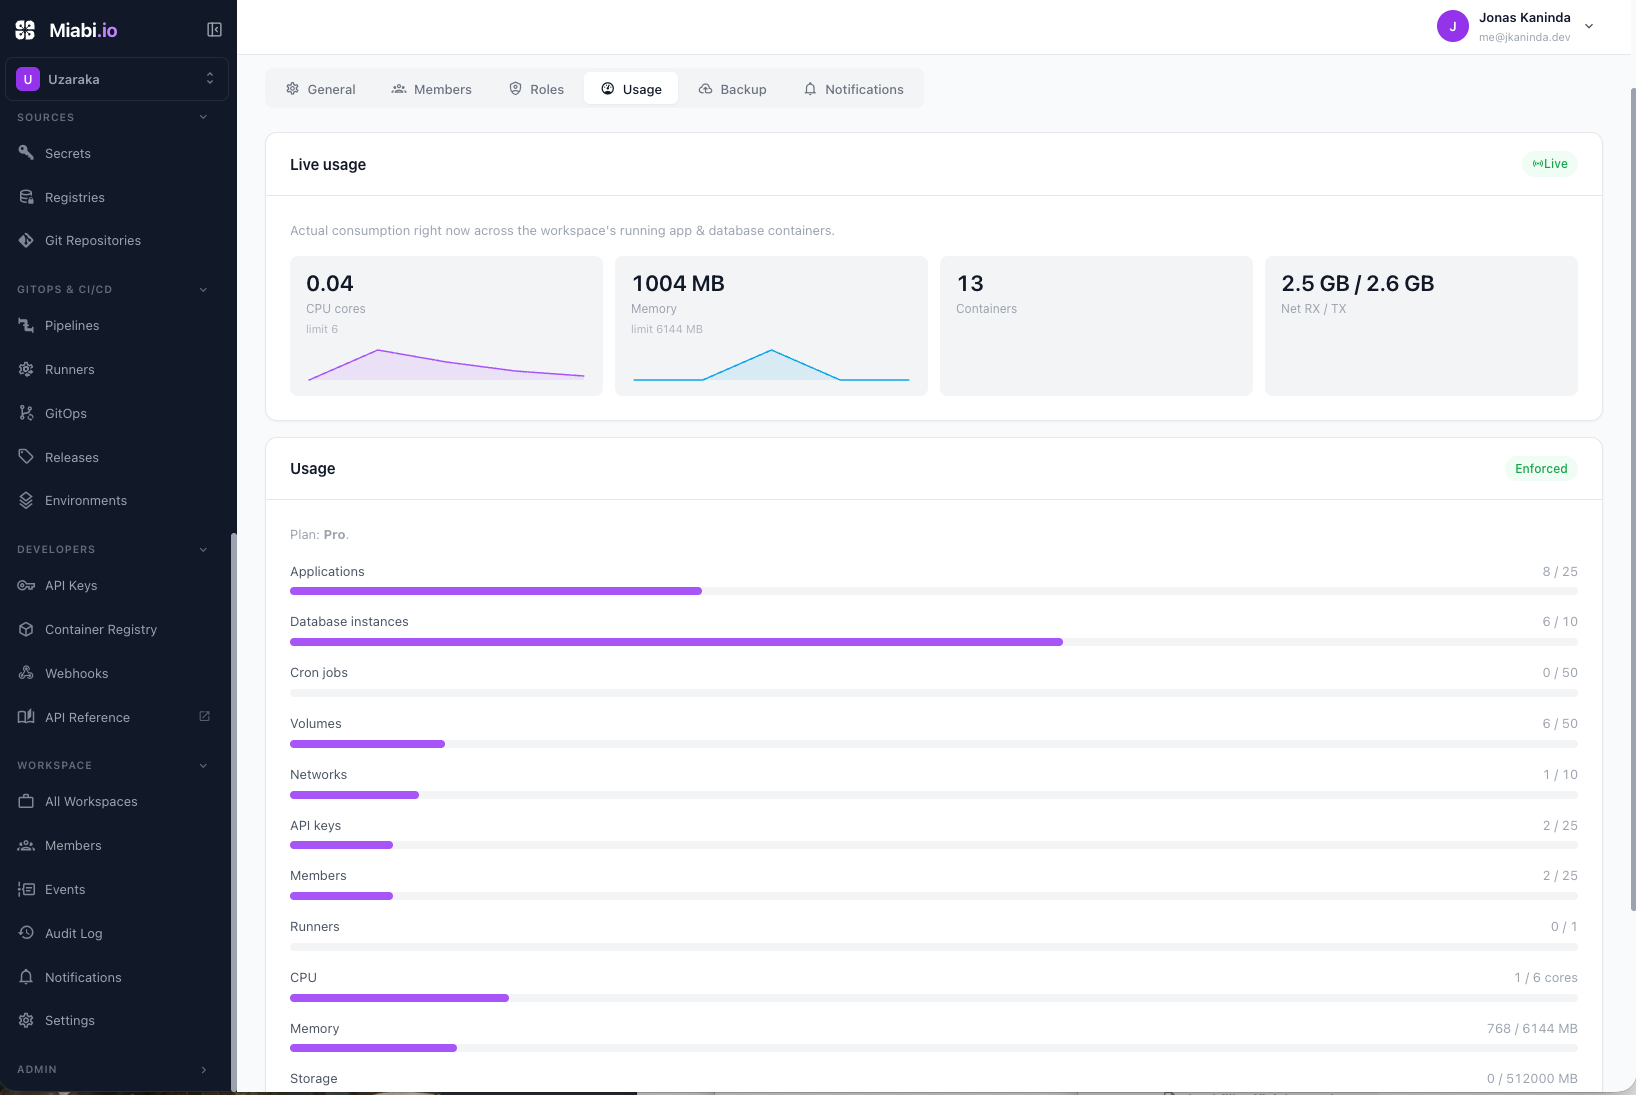
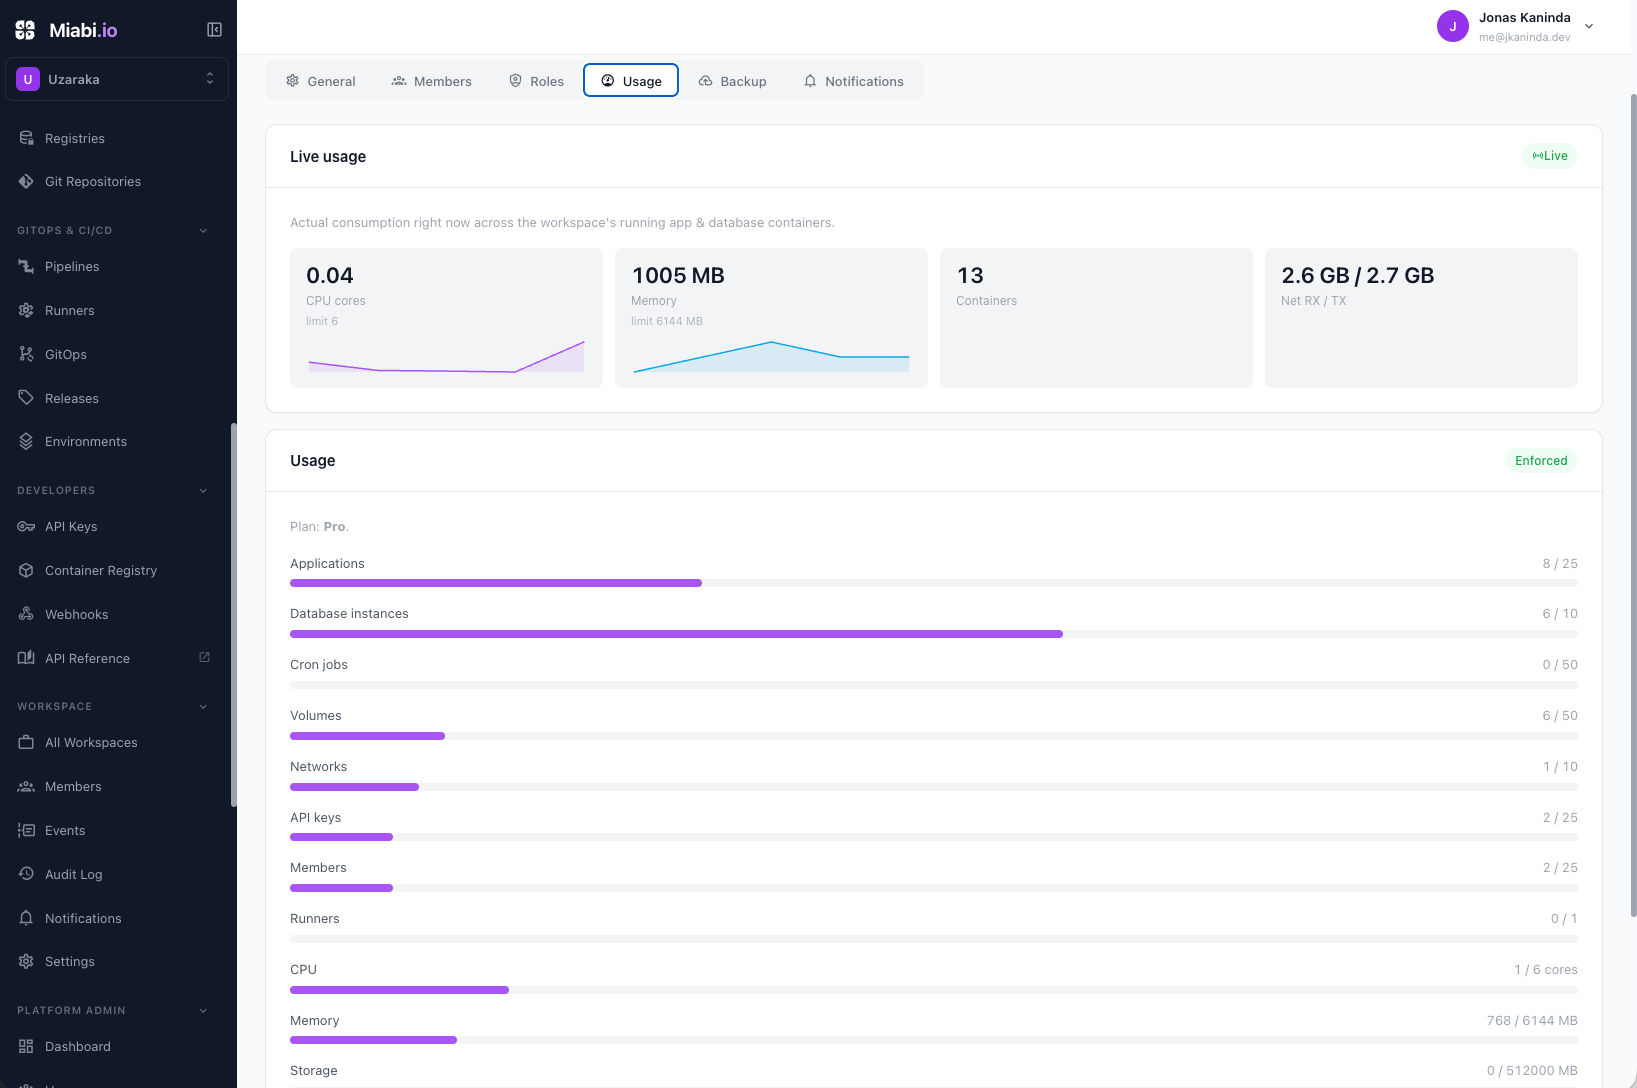
chore: update nodes, volumes,  networks & Subnets documentation and  GPU feature

diff --git a/sidebars.ts b/sidebars.ts
@@ -32,6 +32,7 @@ const sidebars: SidebarsConfig = {
         'applications/environment-variables',
         'applications/releases-and-rollbacks',
         'applications/scaling-and-resources',
+        'applications/gpus',
         'applications/jobs',
         'applications/stacks',
         'applications/environments',

diff --git a/docs/applications/gpus.md b/docs/applications/gpus.md
@@ -1,0 +1,149 @@
+---
+sidebar_position: 7
+title: GPUs
+description: Run GPU-accelerated workloads on Miabi-managed nodes — enable devices per node, gate access by plan, and request GPUs per app.
+---
+
+# GPUs
+
+Miabi can attach **NVIDIA GPUs** to your application containers for inference servers, training
+jobs, transcoding, and other CUDA workloads — without giving every workspace unrestricted access to
+every card on the host. Access is controlled at three levels that mirror the CPU/memory story: a
+platform admin decides **which devices** each node exposes, each **plan** decides whether its
+workspaces may request a GPU and how many, and each **app** declares the GPUs it needs. The deploy
+attaches exactly those devices to the container.
+
+:::note v1 scope
+Version 1 does **whole-device NVIDIA passthrough** with count-based accounting — the common case that
+unblocks real workloads. Fractional GPUs (MIG / time-slicing / MPS), VRAM quotas, AMD ROCm, and
+fleet-wide GPU-aware scheduling are not yet supported. See [Limitations](#limitations).
+:::
+
+## Prerequisites
+
+A node can host GPU workloads when it has:
+
+1. **NVIDIA drivers** installed on the host.
+2. The **[NVIDIA Container Toolkit](https://docs.nvidia.com/datacenter/cloud-native/container-toolkit/latest/install-guide.html)** installed and registered with Docker (this adds the `nvidia` container runtime).
+3. Miabi started with **`MIABI_GPU_ENABLED=true`** (see [Configuration](#configuration)).
+
+Miabi detects the toolkit automatically from the node's Docker runtimes — no node-agent change is
+needed. A node without the toolkit is shown as such, and GPU deploys to it are refused up front
+rather than failing cryptically at container start.
+
+## How it works
+
+```
+Admin enables devices  →  Plan allows GPUs + sets a quota  →  App requests N GPUs  →  Deploy attaches them
+   (per node)                 (per workspace)                    (per app)
+```
+
+Nothing is stored about *which* physical card an app got — devices are resolved fresh at each deploy
+from the node's currently-enabled GPUs, so replacing a card or moving the app to another node just
+works.
+
+## 1. Enable GPUs on a node (admin)
+
+Open **Admin → Nodes → \<node\> → GPUs**. Miabi inventories the node's physical cards by running a
+short probe over the Docker API and lists each one with its model, UUID, memory, and index.
+
+- **Rescan GPUs** re-runs the inventory on demand (it also runs periodically). New cards are
+  discovered automatically.
+- A newly discovered device arrives **disabled** — discovering a card never exposes it to tenants.
+  Toggle **Enabled** to offer it to workloads.
+- Set each device's mode:
+  - **Shared** — many apps may request the device concurrently (good for inference and dev).
+  - **Dedicated** — reserved for one app at a time (good for training).
+
+If the node lacks the NVIDIA Container Toolkit, the page says so and lists no devices until you
+install it and rescan.
+
+## 2. Allow GPUs on a plan (admin)
+
+GPU access is off by default. In **Admin → Plans → \<plan\>**:
+
+- **Allow GPU access** — the capability gate. A workspace cannot request any GPU until its plan
+  allows it.
+- **GPUs** limit — the maximum number of GPU units the workspace's **running** apps may hold at
+  once, summed across apps (the same aggregate model as the CPU/memory limits). `0` = none, `-1` =
+  unlimited. A stopped app frees its units.
+
+You can also override both per workspace under **Admin → Workspaces → \<workspace\>**.
+
+## 3. Request GPUs for an app
+
+In an app's **Settings → Resources**, set:
+
+- **GPUs** — the number of whole devices to attach (`0` = none).
+- **GPU kind** — optionally narrow the request to a vendor or model (e.g. `nvidia`, or a model
+  substring like `A100`). Leave empty to use any enabled GPU on the app's node.
+
+The GPU controls are shown **only when the workspace's plan allows GPUs** — there is no dangling
+field that always errors. The request also rides the [declarative manifest](/docs/cicd/git-push-deploy)
+under `resources.gpu` / `resources.gpuKind`, so a GPU app is reproducible from a manifest.
+
+```yaml
+resources:
+  cpu: "4"
+  memory: 16Gi
+  gpu: 1
+  gpuKind: nvidia
+```
+
+At deploy, Miabi resolves the request to concrete enabled devices on the app's node and attaches
+them. Inside the container `nvidia-smi` lists exactly the granted device(s).
+
+## Constraints & enforcement
+
+GPU access means raw device passthrough, which is privileged, so it is gated hard and refused where
+it would be unsafe:
+
+- **Plan capability, twice.** A workspace whose plan lacks *Allow GPU access* cannot even save an app
+  that requests a GPU (the API returns `403`), and the request is re-checked at deploy.
+- **Quota at deploy.** GPU units are counted against the plan's **GPUs** limit across the workspace's
+  running apps. Deploying an app that would exceed the limit is rejected with the quota reason;
+  stopping another GPU app frees units.
+- **Not with the restricted security profile.** A workload with raw device access is not
+  "restricted", so a GPU app under the [restricted profile](/docs/workspaces/plans-and-quotas) is
+  refused rather than silently downgraded.
+- **Single container only (v1).** A GPU app must run as a single container, not a replicated
+  (cluster/Swarm) service. Set the app's runtime to *container*.
+- **Node must be GPU-capable.** If no enabled device matches the requested kind, or the node lacks
+  the toolkit, the deploy fails with a message naming the node and the requested kind.
+
+With `MIABI_PLAN_ENFORCEMENT=false` (single-tenant/homelab), the capability and quota checks are
+no-ops, but device attachment still works — so a homelab can use GPUs freely.
+
+## Configuration
+
+| Variable | Default | Description |
+|----------|---------|-------------|
+| `MIABI_GPU_ENABLED` | `false` | Master switch. When off, the control plane never probes nodes for GPUs and the UI hides all GPU controls (a no-GPU fleet pays nothing) |
+| `MIABI_NVIDIA_RUNTIME` | `nvidia` | The container runtime name that signals the NVIDIA Container Toolkit is installed |
+| `MIABI_GPU_PROBE_IMAGE` | `nvidia/cuda:12.4.1-base-ubuntu22.04` | The one-shot image the inventory probe runs `nvidia-smi` in. Point at a mirror for air-gapped/registry-pinned fleets |
+| `MIABI_GPU_INVENTORY_MINUTES` | `30` | How often nodes are re-inventoried for GPUs |
+
+## Metrics
+
+When `MIABI_METRICS_ENABLED=true`, the Prometheus `/metrics` endpoint exposes:
+
+- `miabi_gpu_devices_total` — physical GPU devices discovered across all nodes.
+- `miabi_gpu_devices_enabled` — devices enabled (offered to workloads).
+- `miabi_gpu_allocated` — GPU units currently held by running apps.
+
+## Limitations
+
+Version 1 is deliberately scoped to the common case:
+
+- **Whole devices only** — no fractional GPUs (MIG, time-slicing, MPS).
+- **No VRAM quota** — the limit counts whole devices, not GPU memory.
+- **NVIDIA only** — AMD ROCm is not supported.
+- **Single-node placement** — an app's GPUs are chosen on the node it's already pinned to;
+  GPU-aware node selection across a fleet, dedicated-device exclusivity enforcement across the
+  fleet, and clustered (Swarm) GPU services are planned for later phases.
+
+## Related
+
+- [Scaling & Resources](/docs/applications/scaling-and-resources) — CPU and memory limits and replicas.
+- [Plans & Quotas](/docs/workspaces/plans-and-quotas) — capability gates and per-workspace quotas.
+- [Nodes Overview](/docs/nodes/overview) — how nodes and placement work.

diff --git a/docs/editions/community-vs-enterprise.md b/docs/editions/community-vs-enterprise.md
@@ -43,17 +43,17 @@ If you want a build with **zero enterprise code** (the deny-all stub), build it 
 | Per-workspace quota overrides | — | ✓ |
 | Private template registry | — | ✓ |
 | Workspace-owned build runners | ✓ unlimited | ✓ unlimited |
-| Platform-shared runner pool | one | unlimited |
+| Platform-shared runner pool | ✓ unlimited | ✓ unlimited |
+| GPU workloads (NVIDIA passthrough) | ✓ | ✓ |
 | White-label branding | brand | full |
 | Restricted (force non-root) security profile | — | ✓ |
-| HA control plane · cross-region DR | — | ✓ |
 
 :::tip
-The Community edition includes the entire core platform — deploying apps, custom domains, automatic TLS, managed databases, backups, monitoring, the marketplace, and the built-in container registry (local storage) — plus **unlimited nodes**, **unlimited workspace-owned build runners** and **one platform-shared runner**, one SSO provider, the audit log, and brand-level white-labeling. Most individual developers, startups, and homelabs never need anything beyond it.
+The Community edition includes the entire core platform — deploying apps, custom domains, automatic TLS, managed databases, backups, monitoring, the marketplace, and the built-in container registry (local storage) — plus **unlimited nodes**, **unlimited workspace-owned build runners** and an **unlimited platform-shared runner pool**, one SSO provider, the audit log, and brand-level white-labeling. Most individual developers, startups, and homelabs never need anything beyond it.
 :::
 
 :::note
-Enterprise is about identity, governance, scale storage, and resilience: multiple SSO providers with SAML and SCIM, custom roles and per-resource policies, audit export and SIEM streaming, quota overrides, S3/MinIO storage for the container registry, a private template registry, an unlimited platform-shared runner pool, full white-labeling, a restricted security profile, and HA/DR. (A license can also set an explicit node cap; by default both editions are uncapped.)
+Enterprise is about identity, governance, and scale storage: multiple SSO providers with SAML and SCIM, custom roles and per-resource policies, audit export and SIEM streaming, quota overrides, S3/MinIO storage for the container registry, a private template registry, full white-labeling, and a restricted security profile. (A license can also set an explicit node cap; by default both editions are uncapped.)
 :::
 
 ## Where to go next

diff --git a/docs/getting-started/installation.md b/docs/getting-started/installation.md
@@ -1,7 +1,7 @@
 ---
 sidebar_position: 2
 title: Installation
-description: Install Miabi on a fresh Linux host with the one-line installer or Docker Compose
+description: Install Miabi on any Linux host with the one-line installer or Docker Compose
 ---
 
 # Installation
@@ -20,9 +20,19 @@ A small VPS (2 vCPU / 2 GB RAM) is enough to get started. Databases and apps you
 consume additional resources on top of the control plane.
 :::
 
+:::note No fresh server required
+Miabi does **not** need a clean, dedicated host. It runs alongside whatever Docker workloads are
+already on the machine — the control plane only manages the containers, volumes, and networks it
+creates (plus any you explicitly adopt). If you already have containers running, you can
+[import them](/docs/nodes/docker-import) into Miabi and take over their lifecycle **without
+downtime** — they keep running and simply start showing up in the console. And you don't have to use
+the installer script: the [manual Docker Compose path](#manual-install-with-docker-compose) gives you
+the exact same stack.
+:::
+
 ## One-line install (recommended)
 
-On a fresh host, run:
+On your host, run:
 
 ```bash
 curl -fsSL https://github.com/miabi-io/miabi/releases/latest/download/install.sh | sudo bash
@@ -57,6 +67,10 @@ directly (or delete it) to change a value you set on a previous run.
 :::
 
 ## Manual install with Docker Compose
+
+Prefer to skip the installer script? You can bring up the identical stack by hand with plain Docker
+Compose — nothing about Miabi requires the one-line installer, and this path runs equally well on a
+host that already has other containers on it.
 
 ```bash
 git clone https://github.com/miabi-io/miabi && cd miabi/deploy

diff --git a/docs/workspaces/plans-and-quotas.md b/docs/workspaces/plans-and-quotas.md
@@ -37,7 +37,7 @@ Because the check happens at creation, you never end up with a half-provisioned 
 
 ## Capability gates
 
-Beyond raw counts, a plan can gate **features**. Examples include custom TLS certificates, privileged host mounts, shell access into containers, shared (NFS/CIFS) storage, connecting DNS providers, and [custom container labels](/docs/applications/container-labels). Advanced security capabilities such as multiple SSO providers, SAML 2.0, and SCIM provisioning are gated to higher editions. See [Community vs Enterprise](/docs/editions/community-vs-enterprise) for the full breakdown.
+Beyond raw counts, a plan can gate **features**. Examples include custom TLS certificates, privileged host mounts, shell access into containers, shared (NFS/CIFS) storage, connecting DNS providers, [custom container labels](/docs/applications/container-labels), and [GPU access](/docs/applications/gpus) (with a separate **GPUs** quota counting the units a workspace's running apps may hold). Advanced security capabilities such as multiple SSO providers, SAML 2.0, and SCIM provisioning are gated to higher editions. See [Community vs Enterprise](/docs/editions/community-vs-enterprise) for the full breakdown.
 
 When a feature is gated off, the corresponding controls are disabled in the console and the API returns a structured error explaining which capability is required. A platform admin can also override a capability for a single workspace.
 

diff --git a/docs/getting-started/configuration.md b/docs/getting-started/configuration.md
@@ -44,6 +44,17 @@ removes a protection:
 | `MIABI_SECURITY_ENFORCEMENT` | `true` | Stop a platform admin from raw-stopping or removing a Miabi-managed container from the admin node view. Set `false` only as a break-glass escape hatch |
 | `MIABI_UPDATE_CHECK` | `true` | Daily check for a newer Miabi release, surfaced as an admin notice. Notify-only — Miabi never upgrades itself. See [Upgrades](/docs/administration/upgrades) |
 
+### GPUs
+
+Off by default. See [GPUs](/docs/applications/gpus) for the full workflow.
+
+| Variable | Default | Description |
+|----------|---------|-------------|
+| `MIABI_GPU_ENABLED` | `false` | Master switch for GPU support. When off, nodes are never probed and the GPU UI is hidden |
+| `MIABI_NVIDIA_RUNTIME` | `nvidia` | The container runtime name that signals the NVIDIA Container Toolkit is installed |
+| `MIABI_GPU_PROBE_IMAGE` | `nvidia/cuda:12.4.1-base-ubuntu22.04` | One-shot image the device-inventory probe runs `nvidia-smi` in. Point at a mirror for air-gapped fleets |
+| `MIABI_GPU_INVENTORY_MINUTES` | `30` | How often nodes are re-inventoried for GPUs |
+
 ## Database & cache
 
 | Variable | Default | Description |

diff --git a/docs/cicd/runners.md b/docs/cicd/runners.md
@@ -87,7 +87,7 @@ The upshot: a pipeline step can build and push with **zero configured credential
 
 Administrators can register **platform-shared** runners under **Admin → Runners** — runners with no owning workspace that any eligible workspace's jobs can use. Admins manage the shared pool (create, edit, cordon, remove); workspace members can *use* a shared runner but not edit it.
 
-Community may run **one** platform-shared runner; the Enterprise *platform runners* entitlement lifts the cap to an unlimited shared pool. Either way, **workspace-owned runners are always unlimited** — the cap is only on the admin-managed shared pool. A workspace's access to the shared pool is also governed by its plan's *platform runners* capability.
+The platform-shared runner pool is **unlimited** — register as many as you need. **Workspace-owned runners are always unlimited** too. A workspace's access to the shared pool is governed by its plan's *platform runners* capability.
 
 ## Related
 

diff --git a/docs/applications/scaling-and-resources.md b/docs/applications/scaling-and-resources.md
@@ -25,6 +25,13 @@ Limits protect the host and your other apps from a single noisy service. Set the
 Start conservative and watch real usage in [Monitoring](/docs/operations/monitoring), then adjust. Over-allocating memory wastes capacity; under-allocating risks restarts under load.
 :::
 
+## GPUs
+
+An app can also request **NVIDIA GPUs** for accelerated workloads (inference, training, transcoding).
+GPU access is gated by the workspace's plan and by which devices a platform admin has enabled on the
+node, so the GPU controls appear in an app's settings only when its plan allows them. See
+[GPUs](/docs/applications/gpus) for the full setup.
+
 ## Replicas
 
 Increase the **replica count** to run several identical containers of your app at once. More replicas mean:

diff --git a/docs/getting-started/introduction.md b/docs/getting-started/introduction.md
@@ -42,8 +42,12 @@ bill or the vendor lock-in.
 
 ## The north-star flow
 
-Install on a fresh server → create a workspace → create an application → connect a domain →
+Install on any Linux server → create a workspace → create an application → connect a domain →
 deploy → receive automatic SSL → scale and manage. Everything in Miabi ladders up to this.
+
+Miabi doesn't need a clean, dedicated box — it installs alongside your existing Docker workloads,
+and you can [import containers you already run](/docs/nodes/docker-import) to manage them from the
+console **without downtime**.
 
 ## Key features
 
